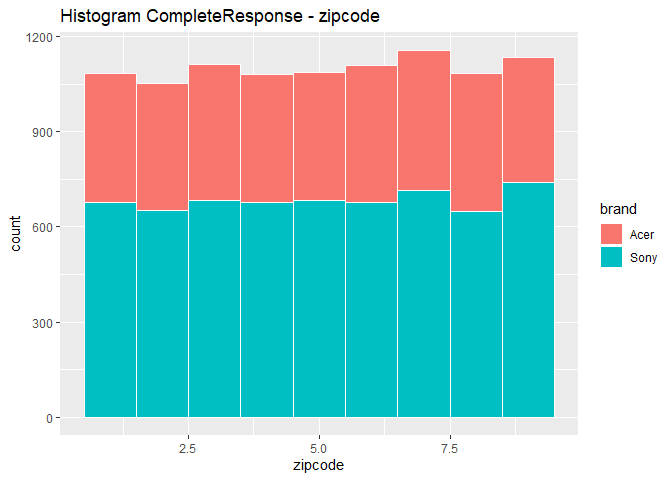
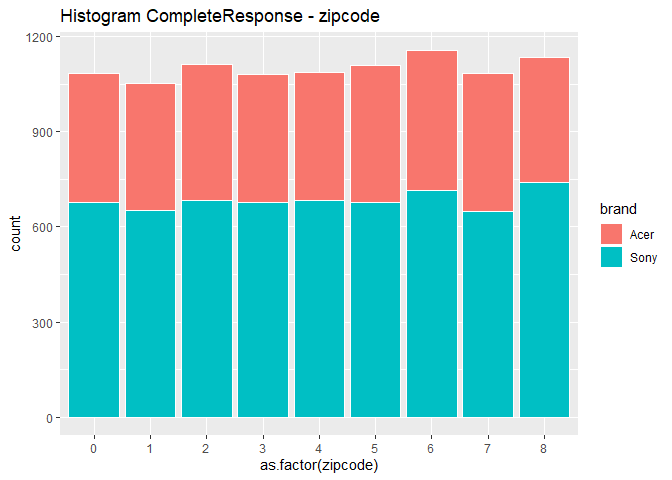
report pdf and markdown

diff --git a/Customer-Brand-Preference-Report---Edison.md b/Customer-Brand-Preference-Report---Edison.md
@@ -145,15 +145,19 @@ Key:
 -   19 Toyota
 -   20 None of the above
 
-![](Customer-Brand-Preference-Report---Edison_files/figure-markdown_github/unnamed-chunk-8-1.png)
+![](Customer-Brand-Preference-Report---Edison_files/figure-markdown_github/unnamed-chunk-8-1.png)![](Customer-Brand-Preference-Report---Edison_files/figure-markdown_github/unnamed-chunk-8-2.png)
 
-    ## Warning: Ignoring unknown parameters: binwith
+-   0 New England
+-   1 Mid-Atlantic
+-   2 East North Central
+-   3 West North Central
+-   4 South Atlantic
+-   5 East South Central
+-   6 West South Central
+-   7 Mountain
+-   8 Pacific
 
-![](Customer-Brand-Preference-Report---Edison_files/figure-markdown_github/unnamed-chunk-8-2.png)
-
-0 New England 1 Mid-Atlantic 2 East North Central 3 West North Central 4
-South Atlantic 5 East South Central 6 West South Central 7 Mountain 8
-Pacific
+<!-- -->
 
     ## 'data.frame':    9898 obs. of  7 variables:
     ##  $ salary : num  119807 106880 78021 63690 50874 ...
@@ -175,8 +179,6 @@ Scatter plots
 
 In order to explore deeper the relationship between the different
 attributes and brand, scatter plots have been made.
-
-    ## `geom_smooth()` using method = 'gam' and formula 'y ~ s(x, bs = "cs")'
 
 ![](Customer-Brand-Preference-Report---Edison_files/figure-markdown_github/unnamed-chunk-10-1.png)
 
@@ -242,80 +244,8 @@ automatic tunning with tunelength = 3. For the validation of models
 folds. The cross-validation results for the tunning parameters can bee
 seen below:
 
-    ## Warning: 'trials' should be <= 7 for this object. Predictions generated
-    ## using 7 trials
-
-    ## Warning: 'trials' should be <= 7 for this object. Predictions generated
-    ## using 7 trials
-
-    ## Warning: 'trials' should be <= 9 for this object. Predictions generated
-    ## using 9 trials
-
-    ## Warning: 'trials' should be <= 9 for this object. Predictions generated
-    ## using 9 trials
-
-    ## Warning: 'trials' should be <= 9 for this object. Predictions generated
-    ## using 9 trials
-
-    ## Warning: 'trials' should be <= 9 for this object. Predictions generated
-    ## using 9 trials
-
-    ## Warning: 'trials' should be <= 5 for this object. Predictions generated
-    ## using 5 trials
-
-    ## Warning: 'trials' should be <= 5 for this object. Predictions generated
-    ## using 5 trials
-
-    ## Warning: 'trials' should be <= 5 for this object. Predictions generated
-    ## using 5 trials
-
-    ## Warning: 'trials' should be <= 5 for this object. Predictions generated
-    ## using 5 trials
-
-    ## Warning: 'trials' should be <= 7 for this object. Predictions generated
-    ## using 7 trials
-
-    ## Warning: 'trials' should be <= 7 for this object. Predictions generated
-    ## using 7 trials
-
-    ## Warning: 'trials' should be <= 3 for this object. Predictions generated
-    ## using 3 trials
-
-    ## Warning: 'trials' should be <= 3 for this object. Predictions generated
-    ## using 3 trials
-
-    ## Warning: 'trials' should be <= 9 for this object. Predictions generated
-    ## using 9 trials
-
-    ## Warning: 'trials' should be <= 9 for this object. Predictions generated
-    ## using 9 trials
-
-    ## Warning: 'trials' should be <= 6 for this object. Predictions generated
-    ## using 6 trials
-
-    ## Warning: 'trials' should be <= 6 for this object. Predictions generated
-    ## using 6 trials
-
-    ## Warning: 'trials' should be <= 9 for this object. Predictions generated
-    ## using 9 trials
-
-    ## Warning: 'trials' should be <= 9 for this object. Predictions generated
-    ## using 9 trials
-
-    ## Warning: 'trials' should be <= 9 for this object. Predictions generated
-    ## using 9 trials
-
-    ## Warning: 'trials' should be <= 9 for this object. Predictions generated
-    ## using 9 trials
-
-    ## Warning: 'trials' should be <= 3 for this object. Predictions generated
-    ## using 3 trials
-
-    ## Warning: 'trials' should be <= 3 for this object. Predictions generated
-    ## using 3 trials
-
     ##    user  system elapsed 
-    ##   97.84    0.91   99.11
+    ##   98.32    0.72   99.18
 
 ``` r
 modelo_c50_auto
@@ -425,7 +355,7 @@ system.time(modelo_rf_man <- train(brand ~ .,
 ```
 
     ##    user  system elapsed 
-    ##  246.33    4.52  251.31
+    ##  246.65    4.64  252.06
 
 ### Testing the model
 
@@ -503,7 +433,7 @@ system.time(modelo_rf_auto <- train(brand ~ .,
 ```
 
     ##    user  system elapsed 
-    ##  304.50    4.72  310.11
+    ##  304.86    4.29  309.81
 
 ### Testing the model
 
